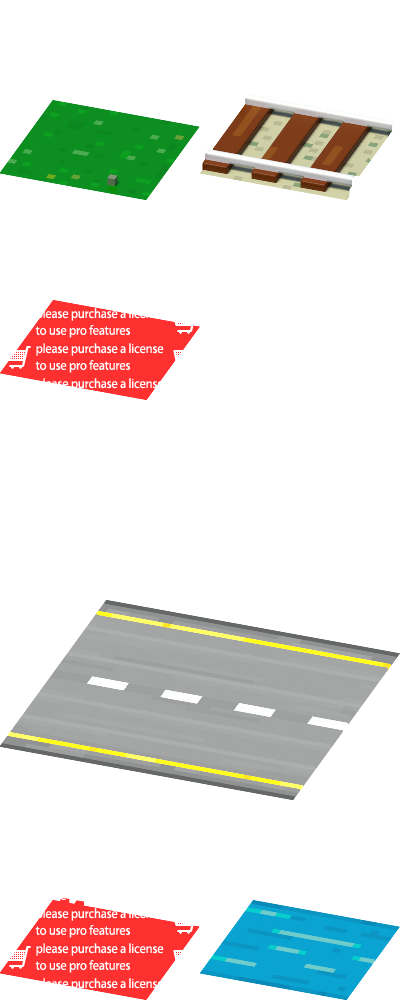
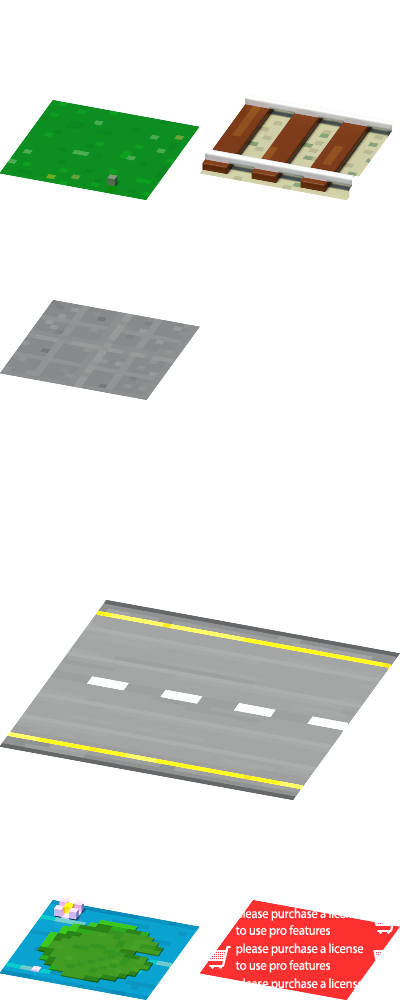
it works

Changed region(s): [[0.51, 0.899, 1.0, 1.0], [0.0, 0.279, 0.51, 0.403], [0.0, 0.899, 0.48, 1.0]]

diff --git a/src/modules/render.js b/src/modules/render.js
@@ -54,17 +54,18 @@ export default class Render {
 			PIXI.loader.pre((res, next) => {
 				res.onComplete.add(function (r) {
 					if (r.extension === 'json') {
-						console.log(require('../assets/2x/' + r.data.meta.image))
 						r.data.meta.image = require('../assets/2x/' + r.data.meta.image)
 					}
 				})
 				next()
 			})
 
-			for (let a in assets.images) {
-				PIXI.loader.add(a, assets.images[a])
+			for (let key in assets.images) {
+				PIXI.loader.add(key, assets.images[key])
+				console.log(assets.images[key])
 			}
 
+			// sounds
 			// let format = 1 // ogg
 			// if (!PIXI.sound.utils.supported.ogg) format = 0 // aac
 			// if (PIXI.sound.utils.supported.mp3) format = 2 // mp3

diff --git a/src/config/index.js b/src/config/index.js
@@ -6,11 +6,11 @@ const assetsFolder = pixelRatio >= 2
 
 const assets = {
 	images: {
-		'down_right': require(`@/assets/2x/down_right.json`),
-		'left_down': require(`@/assets/2x/left_down.json`),
-		'right_up': require(`@/assets/2x/right_up.json`),
-		'up_left': require(`@/assets/2x/up_left.json`),
 		'tiles': require(`@/assets/2x/tiles@2x.json`),
+		// 'down_right': require(`@/assets/2x/down_right.json`),
+		// 'left_down': require(`@/assets/2x/left_down.json`),
+		// 'right_up': require(`@/assets/2x/right_up.json`),
+		// 'up_left': require(`@/assets/2x/up_left.json`),
 	},
 	sounds: {
 

diff --git a/src/data/tiles.js b/src/data/tiles.js
@@ -4,7 +4,7 @@ import { pixelRatio } from '@/config/index'
 // 	? '@2x'
 // 	: '@1x'
 
-const postfix = ''
+const postfix = '@2x'
 
 const tiles = {
 	0: `road_01${postfix}.png`,
